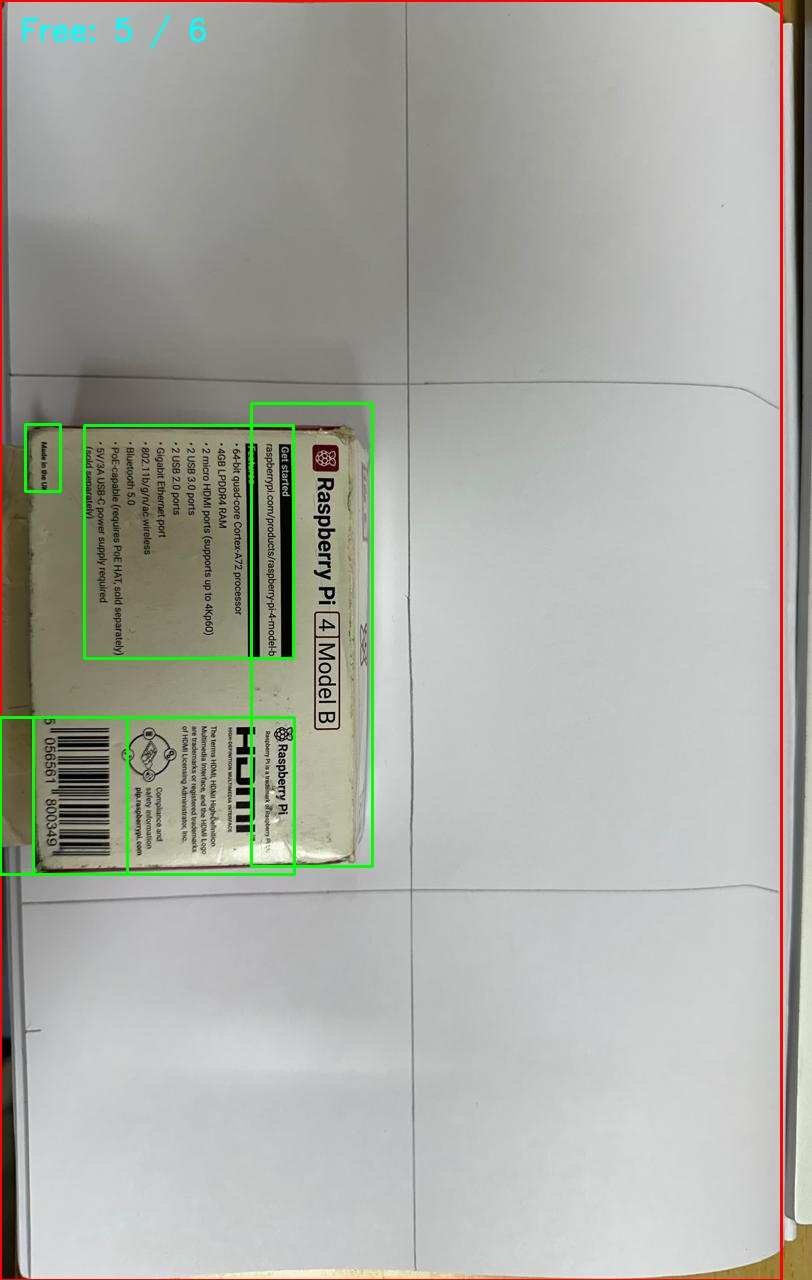
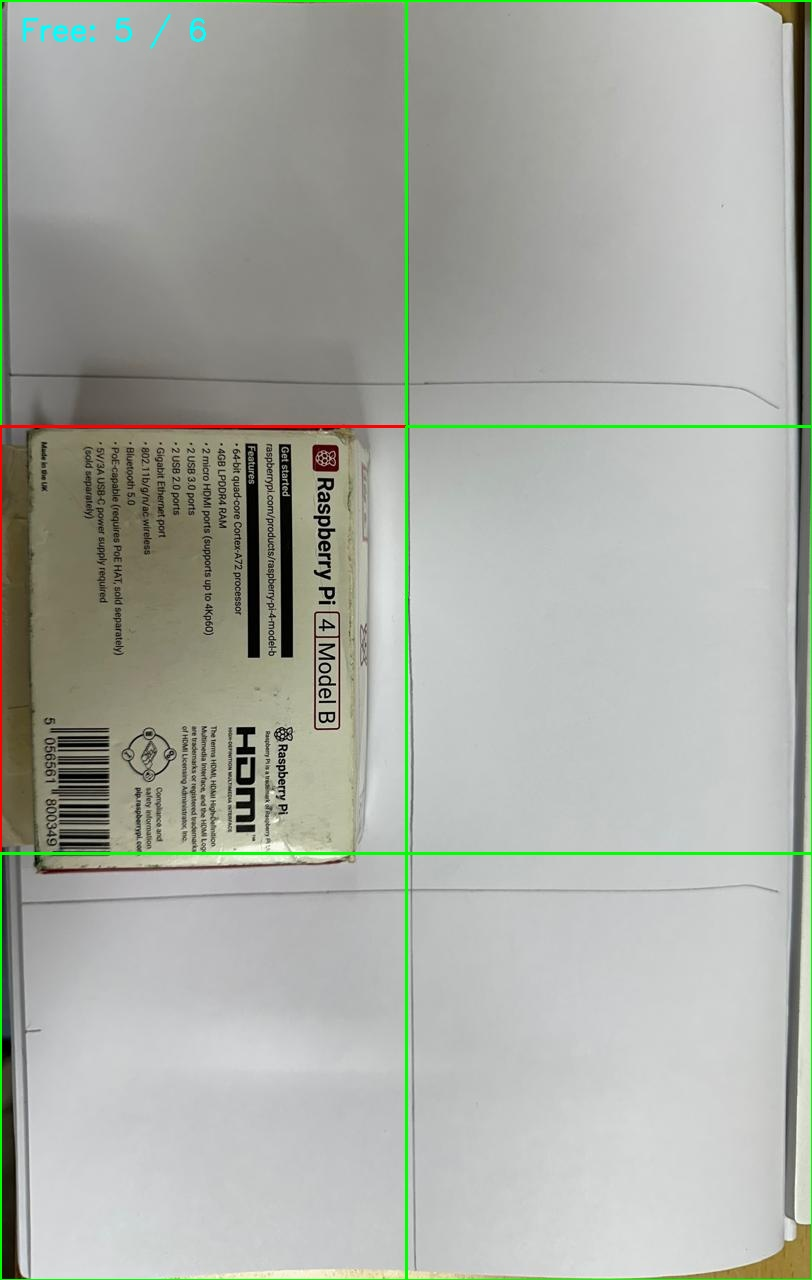
bugs resolved

Changed region(s): [[0.0, 0.0, 1.0, 1.0]]

diff --git a/parking_system.py b/parking_system.py
@@ -1,7 +1,7 @@
 import cv2
 import os
 import argparse
-from ultralytics import YOLO
+import numpy as np
 
 
 def load_slots(path):
@@ -49,6 +49,32 @@ def scale_slots_to_image(slots, img_w, img_h):
     return scaled
 
 
+def generate_grid_slots(img_w, img_h, rows, cols, roi=None):
+    if roi is None:
+        x1, y1, x2, y2 = 0, 0, img_w, img_h
+    else:
+        x1, y1, x2, y2 = roi
+        x1 = max(0, min(x1, img_w - 1))
+        y1 = max(0, min(y1, img_h - 1))
+        x2 = max(x1 + 1, min(x2, img_w))
+        y2 = max(y1 + 1, min(y2, img_h))
+
+    grid_w = x2 - x1
+    grid_h = y2 - y1
+    cell_w = grid_w / float(cols)
+    cell_h = grid_h / float(rows)
+
+    slots = []
+    for r in range(rows):
+        for c in range(cols):
+            sx1 = int(x1 + c * cell_w)
+            sy1 = int(y1 + r * cell_h)
+            sx2 = int(x1 + (c + 1) * cell_w)
+            sy2 = int(y1 + (r + 1) * cell_h)
+            slots.append((sx1, sy1, sx2, sy2))
+    return slots
+
+
 def rects_overlap(a, b):
     ax1, ay1, ax2, ay2 = a
     bx1, by1, bx2, by2 = b
@@ -73,10 +99,19 @@ def rect_area(r):
     return max(0, r[2] - r[0]) * max(0, r[3] - r[1])
 
 
-def process_frame(frame, slots, model, classes, conf, imgsz, device, overlap_threshold=0.15):
-    results = model.predict(frame, conf=conf, imgsz=imgsz,
-                            device=device, verbose=False)
+def clamp_box(x1, y1, x2, y2, w, h):
+    x1 = max(0, min(x1, w - 1))
+    y1 = max(0, min(y1, h - 1))
+    x2 = max(0, min(x2, w - 1))
+    y2 = max(0, min(y2, h - 1))
+    if x2 <= x1 or y2 <= y1:
+        return None
+    return (x1, y1, x2, y2)
 
+
+def detect_with_ultralytics(frame, detector, classes, conf, imgsz, device):
+    results = detector.predict(frame, conf=conf, imgsz=imgsz,
+                               device=device, verbose=False)
     detected_boxes = []
     for r in results:
         for box in r.boxes:
@@ -84,12 +119,84 @@ def process_frame(frame, slots, model, classes, conf, imgsz, device, overlap_thr
             if classes is not None and len(classes) > 0 and cls not in classes:
                 continue
             x1, y1, x2, y2 = map(int, box.xyxy[0])
-            detected_boxes.append((x1, y1, x2, y2))
+            box_clamped = clamp_box(x1, y1, x2, y2, frame.shape[1], frame.shape[0])
+            if box_clamped is not None:
+                detected_boxes.append(box_clamped)
+    return detected_boxes
+
+
+def detect_with_opencv_onnx(frame, net, classes, conf, imgsz):
+    h, w = frame.shape[:2]
+    blob = cv2.dnn.blobFromImage(
+        frame, scalefactor=1.0 / 255.0, size=(imgsz, imgsz), swapRB=True, crop=False
+    )
+    net.setInput(blob)
+    out = net.forward()
+
+    if out.ndim == 3:
+        out = out[0]
+    if out.ndim == 2 and out.shape[0] < out.shape[1]:
+        out = out.T
+
+    boxes_xywh = []
+    boxes_xyxy = []
+    scores = []
+
+    x_factor = w / float(imgsz)
+    y_factor = h / float(imgsz)
+
+    for row in out:
+        if row.shape[0] < 6:
+            continue
+
+        class_scores = row[4:]
+        class_id = int(np.argmax(class_scores))
+        score = float(class_scores[class_id])
+        if score < conf:
+            continue
+        if classes is not None and len(classes) > 0 and class_id not in classes:
+            continue
+
+        cx, cy, bw, bh = row[0], row[1], row[2], row[3]
+        x1 = int((cx - bw / 2.0) * x_factor)
+        y1 = int((cy - bh / 2.0) * y_factor)
+        x2 = int((cx + bw / 2.0) * x_factor)
+        y2 = int((cy + bh / 2.0) * y_factor)
+        clamped = clamp_box(x1, y1, x2, y2, w, h)
+        if clamped is None:
+            continue
+        x1c, y1c, x2c, y2c = clamped
+
+        boxes_xyxy.append((x1c, y1c, x2c, y2c))
+        boxes_xywh.append([x1c, y1c, max(1, x2c - x1c), max(1, y2c - y1c)])
+        scores.append(score)
+
+    if not boxes_xywh:
+        return []
+
+    indices = cv2.dnn.NMSBoxes(boxes_xywh, scores, conf, 0.45)
+    if len(indices) == 0:
+        return []
+
+    selected = []
+    for idx in np.array(indices).flatten().tolist():
+        selected.append(boxes_xyxy[idx])
+    return selected
+
+
+def process_frame(frame, slots, detector, backend, classes, conf, imgsz, device, overlap_threshold=0.15):
+    if backend == "ultralytics":
+        detected_boxes = detect_with_ultralytics(
+            frame, detector, classes, conf, imgsz, device)
+    else:
+        detected_boxes = detect_with_opencv_onnx(
+            frame, detector, classes, conf, imgsz)
 
     occupied_indices = set()
     for db in detected_boxes:
         best_idx = -1
         best_score = 0.0
+        best_slot_area = None
         db_area = rect_area(db)
         if db_area <= 0:
             continue
@@ -98,10 +205,24 @@ def process_frame(frame, slots, model, classes, conf, imgsz, device, overlap_thr
             if inter <= 0:
                 continue
             score = inter / float(db_area)
-            if score > best_score:
+            if score < overlap_threshold:
+                continue
+
+            slot_area = rect_area(s)
+            if best_slot_area is None:
+                best_slot_area = slot_area
                 best_score = score
                 best_idx = i
-        if best_idx >= 0 and best_score >= overlap_threshold:
+                continue
+
+            # Prefer the smallest valid overlapping slot. This avoids assigning
+            # all objects to one giant container slot if slot annotations include one.
+            if slot_area < best_slot_area or (slot_area == best_slot_area and score > best_score):
+                best_slot_area = slot_area
+                best_score = score
+                best_idx = i
+
+        if best_idx >= 0:
             occupied_indices.add(best_idx)
 
     annotated = frame.copy()
@@ -124,8 +245,16 @@ def main():
     p.add_argument("image", nargs="?", default=None,
                    help="Path to input image (optional when --camera is used)")
     p.add_argument("--model", default="yolo11n.pt", help="YOLO model path")
+    p.add_argument("--backend", choices=["ultralytics", "opencv"], default="ultralytics",
+                   help="Inference backend: ultralytics (PyTorch) or opencv (ONNX). Use opencv on Raspberry Pi if torch fails.")
     p.add_argument("--slots", default="annotated_parking_coords.txt",
                    help="Slots file (x1,y1,x2,y2[,flag])")
+    p.add_argument("--grid-rows", type=int, default=0,
+                   help="Generate slot grid rows dynamically (example: 3)")
+    p.add_argument("--grid-cols", type=int, default=0,
+                   help="Generate slot grid columns dynamically (example: 2)")
+    p.add_argument("--grid-roi", type=str, default=None,
+                   help="Optional ROI for grid as x1,y1,x2,y2; if omitted, whole image is used")
     p.add_argument("--output", "-o", default="parking_out.jpg",
                    help="Annotated output image")
     p.add_argument("--classes", nargs="*", type=int, default=None,
@@ -158,7 +287,26 @@ def main():
         print("Error: YOLO model not found:", args.model)
         return
 
-    model = YOLO(args.model)
+    if args.backend == "ultralytics":
+        try:
+            from ultralytics import YOLO
+        except Exception as e:
+            print("Error: failed to import ultralytics.")
+            print("This can happen on Raspberry Pi due to incompatible torch build.")
+            print("Use ONNX + OpenCV backend instead:")
+            print("python parking_system.py <image> --backend opencv --model yolo11n.onnx --slots annotated_parking_coords.txt -o out.jpg")
+            print("Import error:", e)
+            return
+        detector = YOLO(args.model)
+    else:
+        if not args.model.lower().endswith(".onnx"):
+            print("Error: OpenCV backend requires an ONNX model file (example: yolo11n.onnx)")
+            return
+        try:
+            detector = cv2.dnn.readNetFromONNX(args.model)
+        except cv2.error as e:
+            print("Error: failed to load ONNX model with OpenCV:", e)
+            return
 
     if args.camera:
         cap = cv2.VideoCapture(args.camera_index)
@@ -166,7 +314,15 @@ def main():
             print(f"Error: could not open camera index {args.camera_index}")
             return
 
-        slots = load_slots(args.slots)
+        slots = load_slots(args.slots) if not (args.grid_rows > 0 and args.grid_cols > 0) else None
+        roi = None
+        if args.grid_roi:
+            try:
+                vals = [int(v.strip()) for v in args.grid_roi.split(",")]
+                if len(vals) == 4:
+                    roi = tuple(vals)
+            except ValueError:
+                roi = None
         frame_count = 0
         while True:
             ok, frame = cap.read()
@@ -175,10 +331,15 @@ def main():
                 break
 
             frame_count += 1
-            scaled_slots = scale_slots_to_image(
-                slots, frame.shape[1], frame.shape[0])
+            if args.grid_rows > 0 and args.grid_cols > 0:
+                scaled_slots = generate_grid_slots(
+                    frame.shape[1], frame.shape[0], args.grid_rows, args.grid_cols, roi=roi
+                )
+            else:
+                scaled_slots = scale_slots_to_image(
+                    slots, frame.shape[1], frame.shape[0])
             annotated, occupied, free, total = process_frame(
-                frame, scaled_slots, model, args.classes, args.conf, args.imgsz, args.device
+                frame, scaled_slots, detector, args.backend, args.classes, args.conf, args.imgsz, args.device
             )
 
             if args.show:
@@ -208,10 +369,24 @@ def main():
         print("Error: failed to read image")
         return
 
-    slots = load_slots(args.slots)
-    scaled_slots = scale_slots_to_image(slots, img.shape[1], img.shape[0])
+    roi = None
+    if args.grid_roi:
+        try:
+            vals = [int(v.strip()) for v in args.grid_roi.split(",")]
+            if len(vals) == 4:
+                roi = tuple(vals)
+        except ValueError:
+            roi = None
+
+    if args.grid_rows > 0 and args.grid_cols > 0:
+        scaled_slots = generate_grid_slots(
+            img.shape[1], img.shape[0], args.grid_rows, args.grid_cols, roi=roi
+        )
+    else:
+        slots = load_slots(args.slots)
+        scaled_slots = scale_slots_to_image(slots, img.shape[1], img.shape[0])
     annotated, occupied, free, total = process_frame(
-        img, scaled_slots, model, args.classes, args.conf, args.imgsz, args.device
+        img, scaled_slots, detector, args.backend, args.classes, args.conf, args.imgsz, args.device
     )
 
     if args.show:

diff --git a/README.md b/README.md
@@ -31,6 +31,31 @@ pip install --upgrade pip
 pip install -r requirements.txt
 ```
 
+If you get `Illegal instruction` on Raspberry Pi, it is usually from `torch/ultralytics` binary compatibility.
+Use the OpenCV ONNX backend (no torch runtime required on Pi).
+
+## 1.1) Illegal Instruction Fix (Recommended on Pi)
+
+1. Export ONNX once on your laptop/PC (not on Pi):
+
+```bash
+yolo export model=yolo11n.pt format=onnx imgsz=416
+```
+
+2. Copy `yolo11n.onnx` to Raspberry Pi project folder.
+
+3. Run script on Pi with OpenCV backend:
+
+```bash
+python parking_system.py model_2/test_obj.jpeg --backend opencv --model yolo11n.onnx --slots annotated_parking_coords.txt -o out.jpg --imgsz 416
+```
+
+For live camera on Pi with OpenCV backend:
+
+```bash
+python parking_system.py --camera --backend opencv --model yolo11n.onnx --slots annotated_parking_coords.txt -o latest_frame.jpg --camera-index 0 --imgsz 416 --save-interval 30
+```
+
 If your camera is PiCam, make sure V4L2 is available (`/dev/video0`).
 
 ## 2) Single Image Run
@@ -38,6 +63,21 @@ If your camera is PiCam, make sure V4L2 is available (`/dev/video0`).
 ```bash
 python parking_system.py model_2/test_obj.jpeg --model yolo11n.pt --slots annotated_parking_coords.txt -o out.jpg --device cpu --imgsz 416
 ```
+
+If your slot file is wrong/misaligned, generate slots as a fixed 2x3 grid (6 total):
+
+```bash
+python parking_system.py model_2/test2.jpeg --model yolo11n.pt --grid-rows 3 --grid-cols 2 -o out.jpg --device cpu --imgsz 416
+```
+
+Optional: restrict grid to a region of interest:
+
+```bash
+python parking_system.py model_2/test2.jpeg --model yolo11n.pt --grid-rows 3 --grid-cols 2 --grid-roi 0,0,830,1280 -o out.jpg --device cpu --imgsz 416
+```
+
+If `ultralytics` works on your Pi, this command is fine.
+If not, use `--backend opencv --model yolo11n.onnx`.
 
 Expected output format:
 
